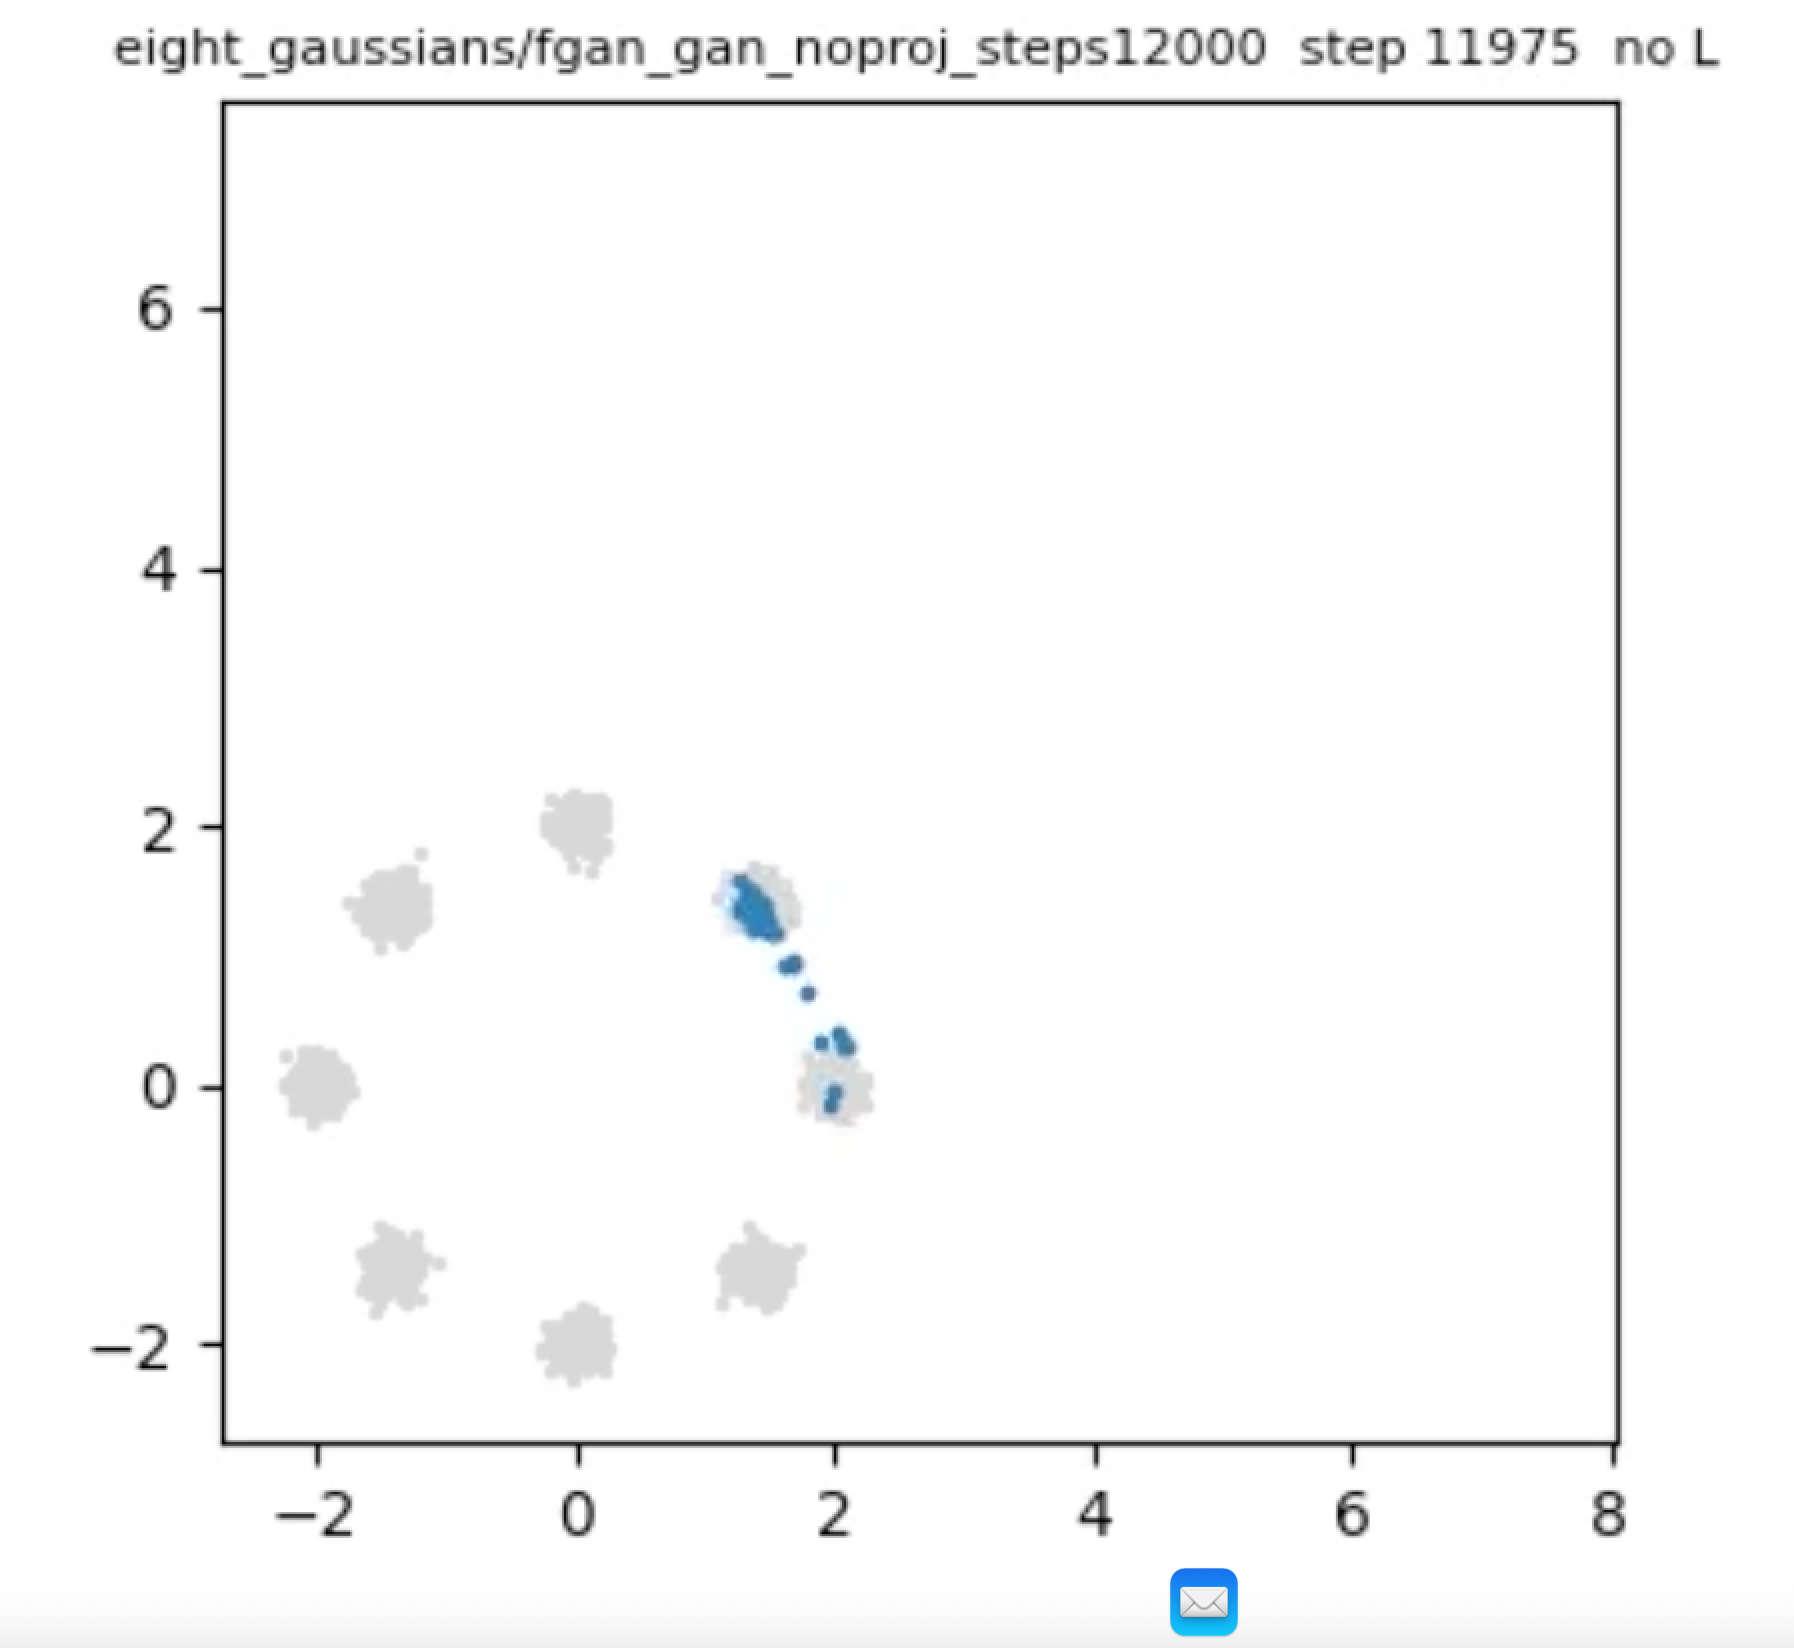
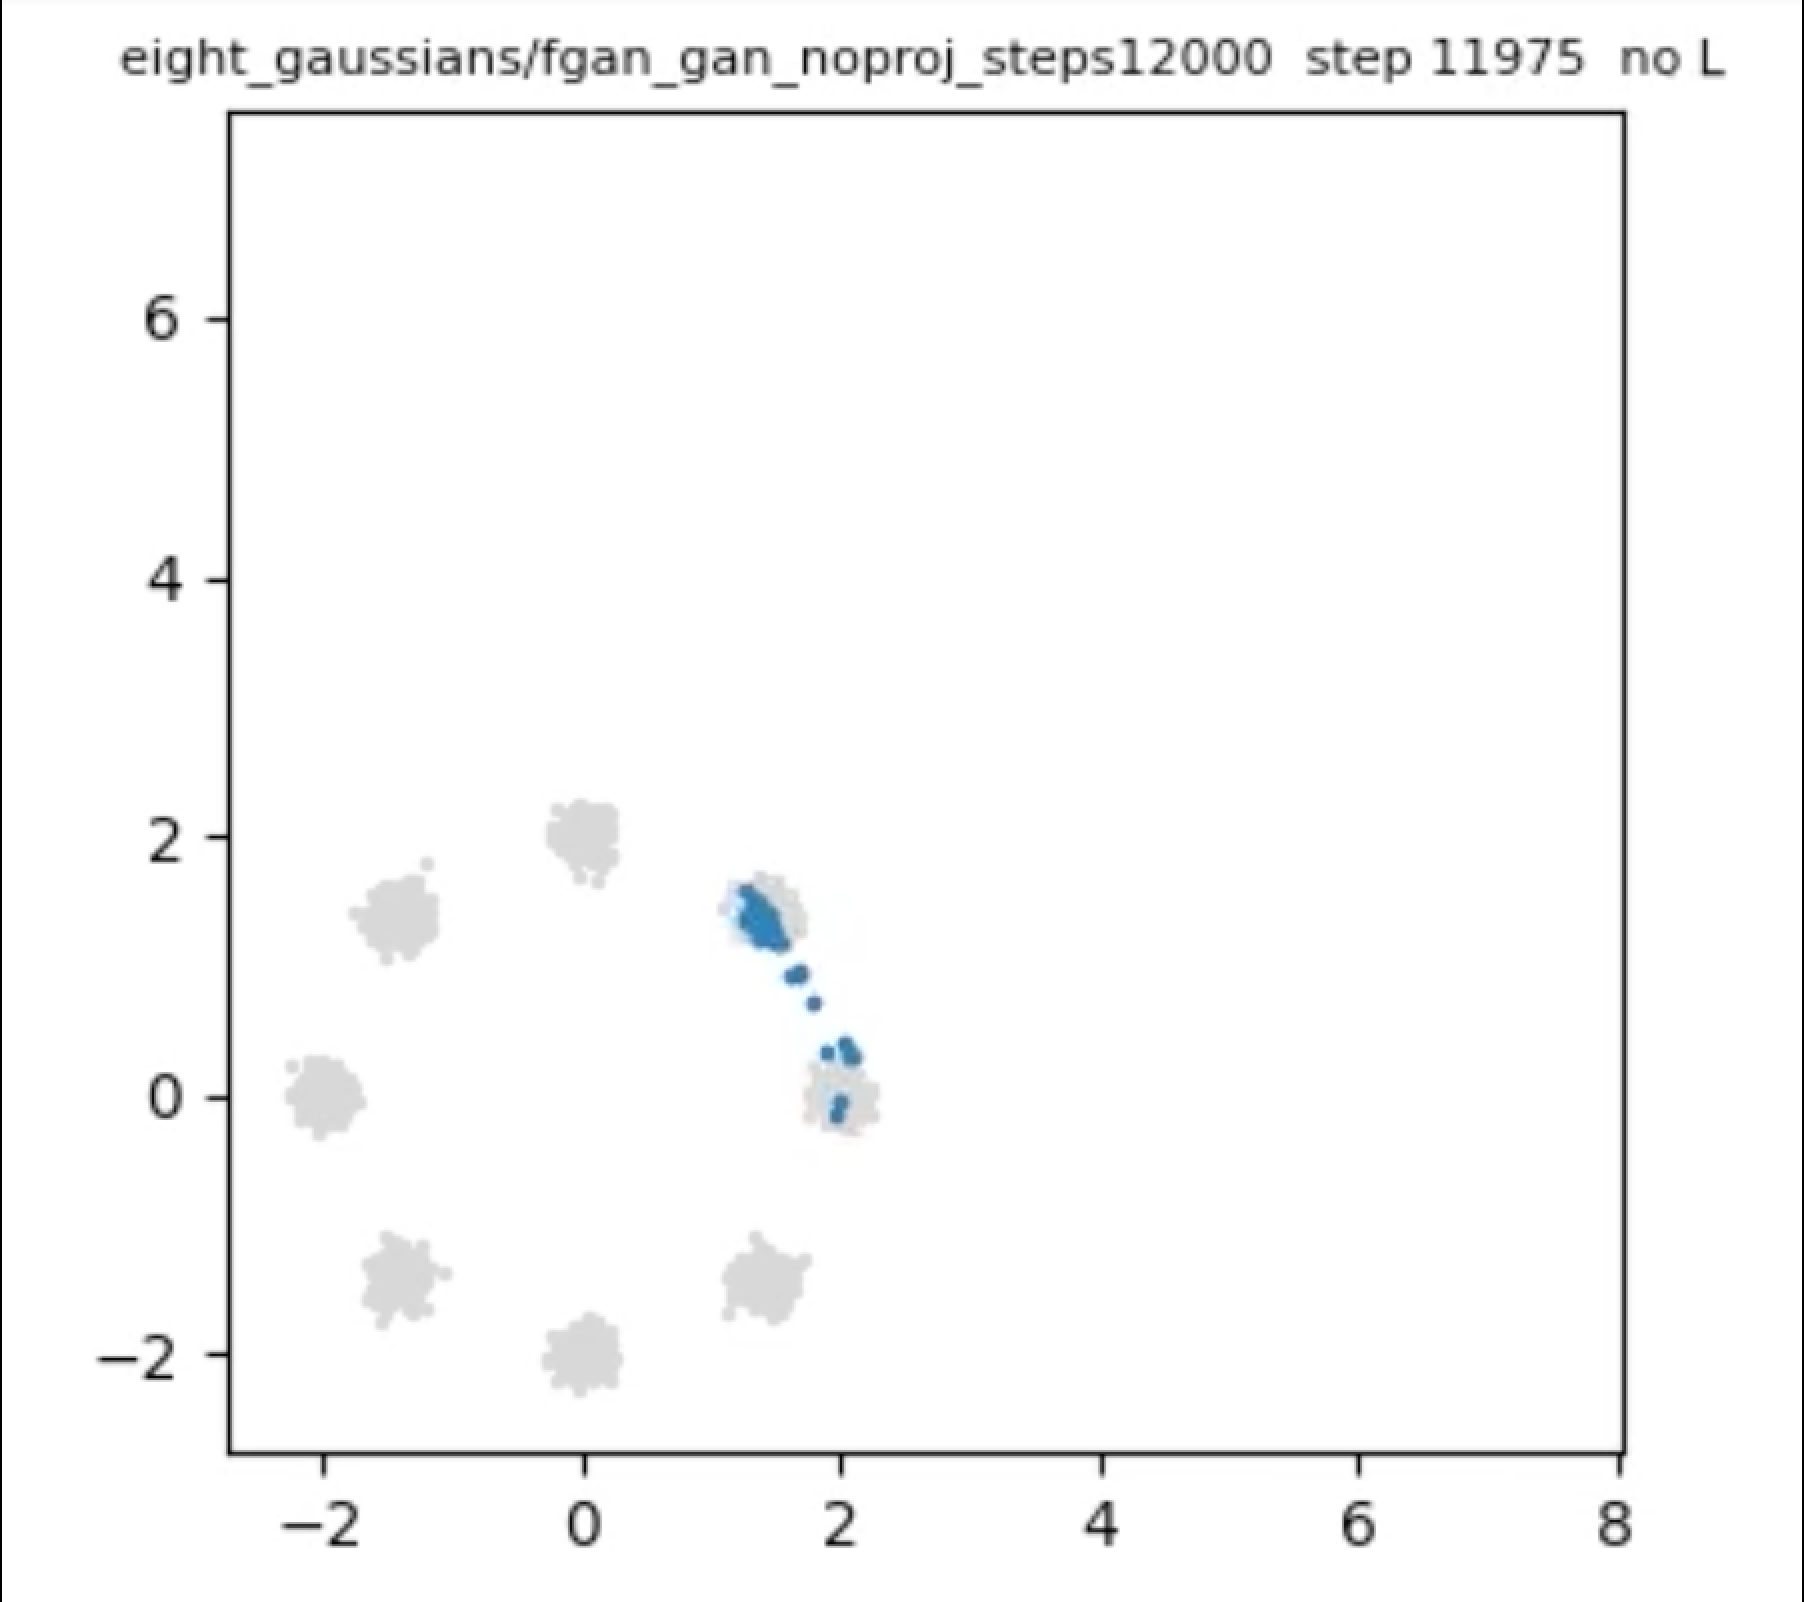
Add more images

diff --git a/README.md b/README.md
@@ -196,21 +196,21 @@ All experiments use the `eight_gaussians` dataset.
       <sub><b>Figure 1.</b> Caption for the first image.</sub>
     </td>
     <td align="center" width="33%">
-      <img src="docs/images/fig2.gif" width="100%" alt="Figure 2"><br>
+      <img src="docs/images/fig_2.png" width="100%" alt="Figure 2"><br>
       <sub><b>Figure 2.</b> Caption for the second image.</sub>
     </td>
     <td align="center" width="33%">
-      <img src="docs/images/fig3.gif" width="100%" alt="Figure 3"><br>
+      <img src="docs/images/fig_3.png" width="100%" alt="Figure 3"><br>
       <sub><b>Figure 3.</b> Caption for the third image.</sub>
     </td>
   </tr>
   <tr>
     <td align="center" width="33%">
-      <img src="docs/images/fig4.gif" width="100%" alt="Figure 4"><br>
+      <img src="docs/images/fig_4.png" width="100%" alt="Figure 4"><br>
       <sub><b>Figure 4.</b> Caption for the fourth image.</sub>
     </td>
     <td align="center" width="33%">
-      <img src="docs/images/fig5.gif" width="100%" alt="Figure 5"><br>
+      <img src="docs/images/fig_5.png" width="100%" alt="Figure 5"><br>
       <sub><b>Figure 5.</b> Caption for the fifth image.</sub>
     </td>
     <td align="center" width="33%">
